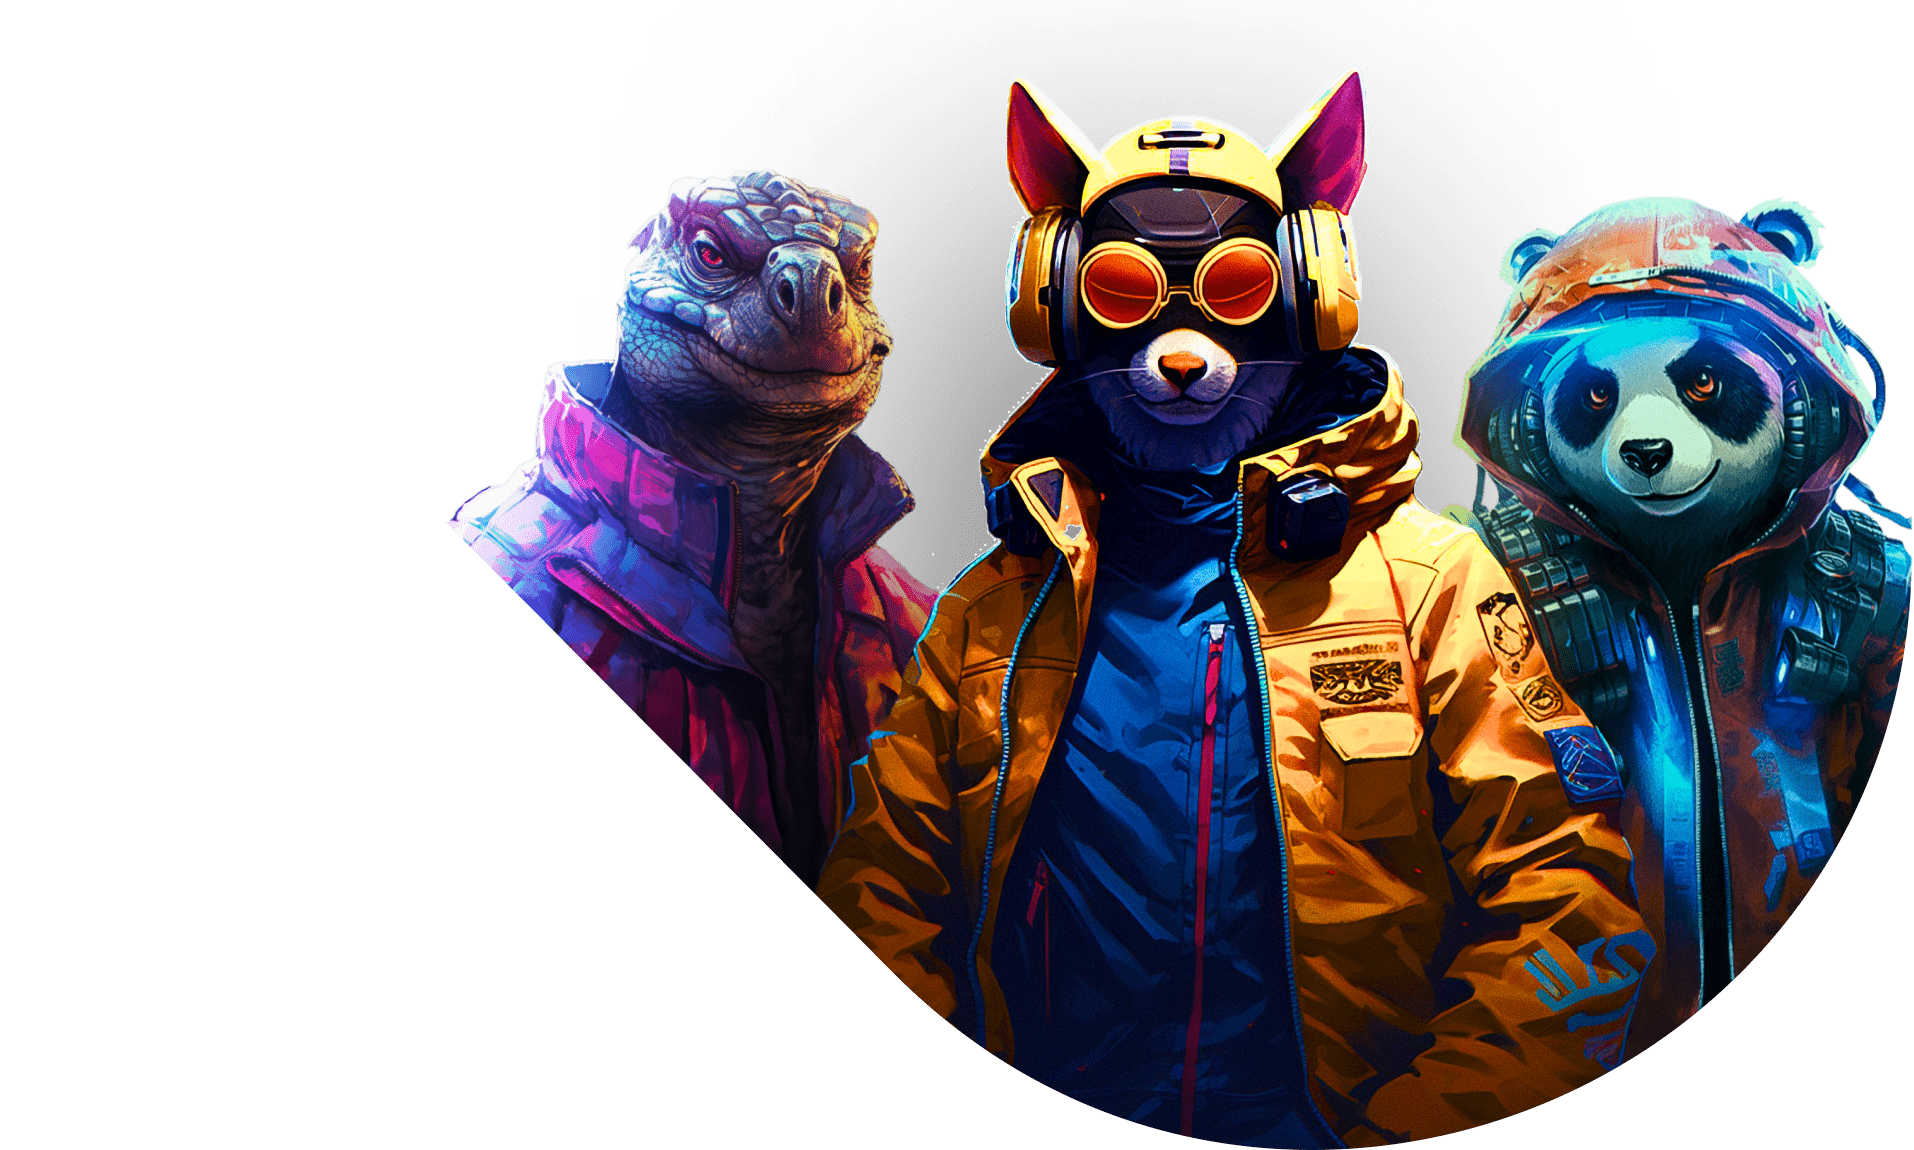
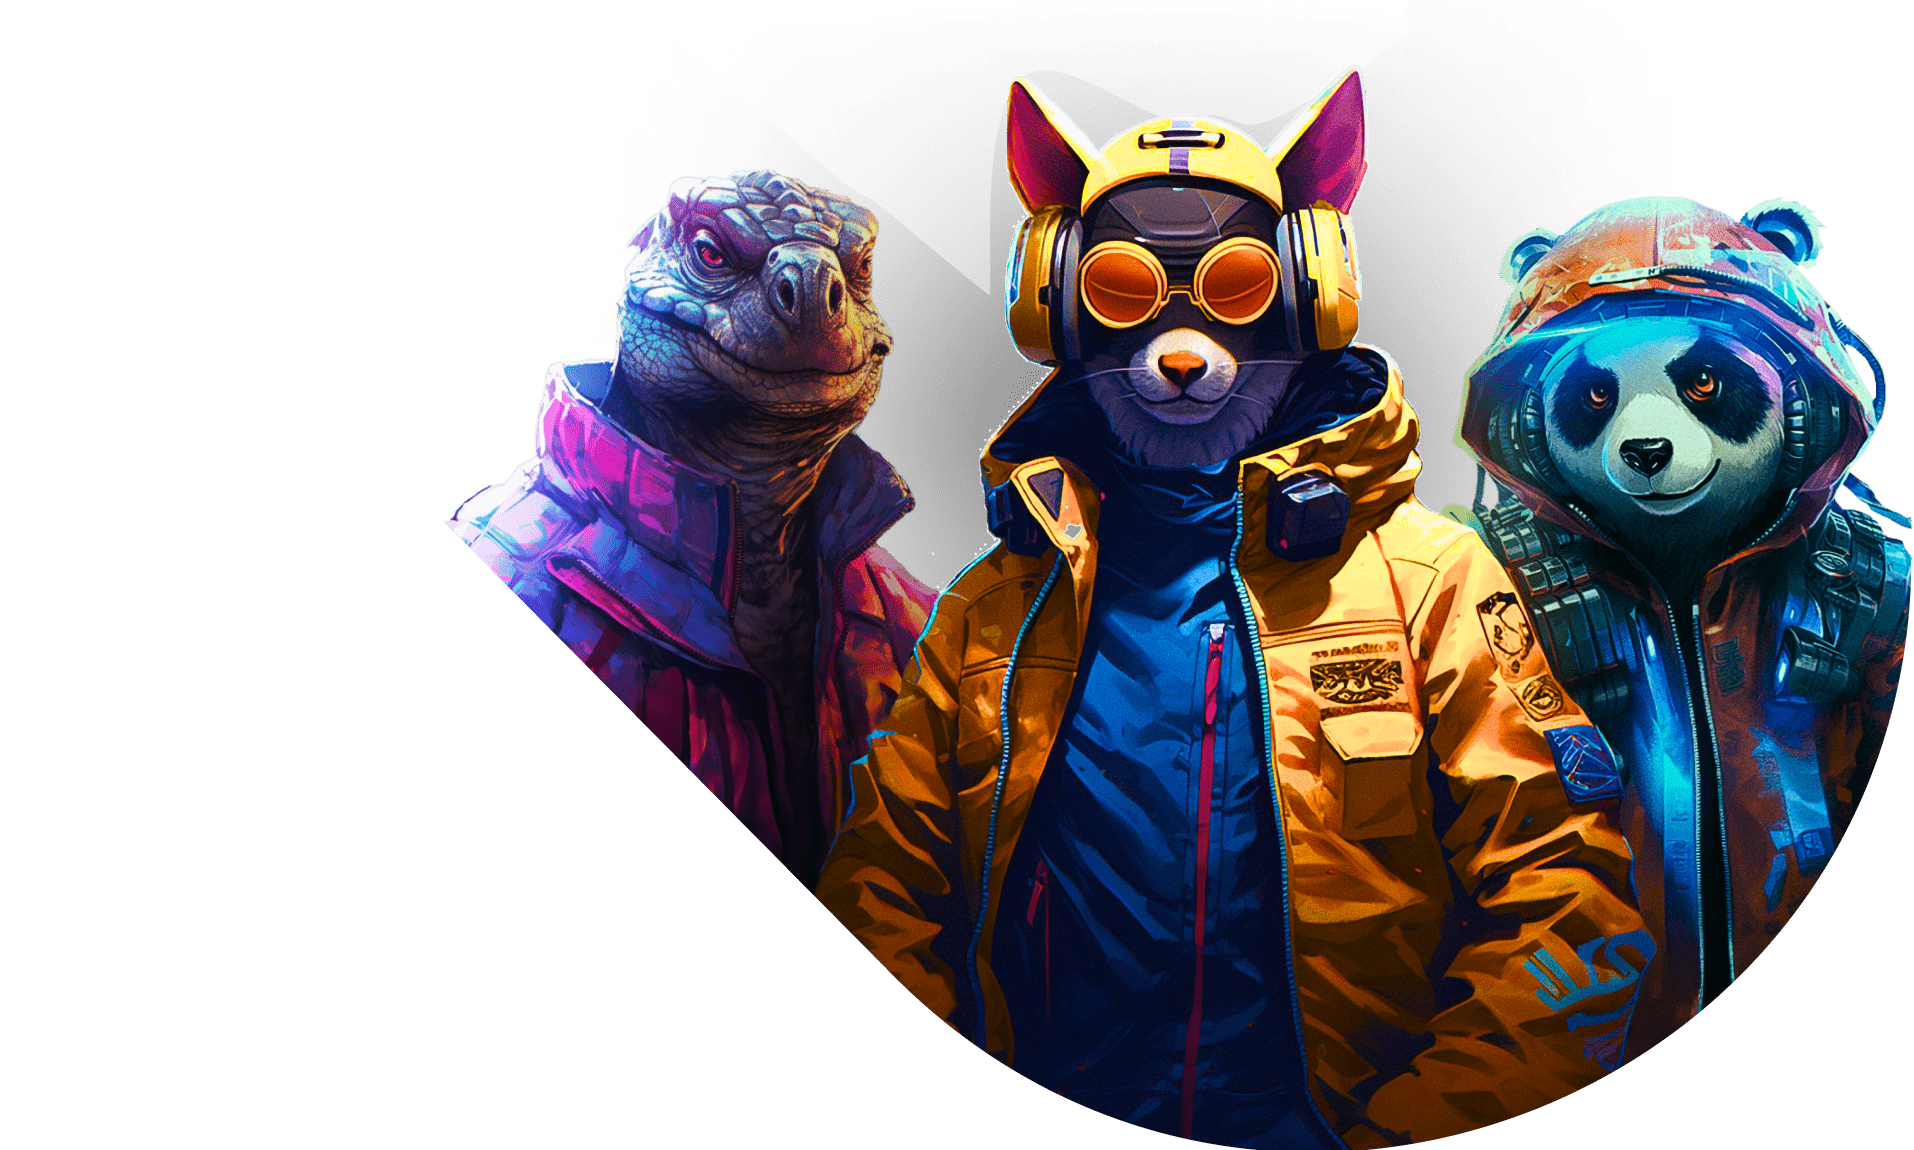
chore: hero bg image position

diff --git a/src/components/pages/community/hero/hero.jsx b/src/components/pages/community/hero/hero.jsx
@@ -25,7 +25,7 @@ const Hero = () => (
       >
         Welcome to{` `}
         <br className="md:hidden" />
-        Novu Community
+        Novu&nbsp;Community
       </Heading>
       <p
         className="col-start-2 col-span-5 mt-4 text-xl font-book max-w-[504px] leading-snug text-white opacity-70 xl:text-lg xl:max-w-[458px] lg:col-span-6 lg:col-start-1 md:col-span-8 md:col-start-3 md:text-base md:text-center md:max-w-none sm:mt-3 sm:col-span-full sm:max-w-[312px] sm:leading-tight sm:mx-auto"
@@ -39,28 +39,28 @@ const Hero = () => (
       />
     </div>
     <div
-      className="absolute z-0 top-0 left-1/2 w-[1920px] -translate-x-1/2 xl:w-[1480px] xl:top-8 lg:w-[1240px] lg:left-[48.5%] md:w-[1500px] md:left-1/2 md:top-0 md:-translate-x-[70.75%] sm:w-[830px]"
+      className="absolute z-0 top-0 left-1/2 w-[1920px] -translate-x-1/2 xl:w-[1480px] lg:w-[1240px] lg:left-[48.5%] md:w-[1500px] md:left-1/2 md:-translate-x-[70.75%] sm:w-[830px]"
       aria-hidden
     >
       <span className="absolute top-[16%] left-[87.7%] w-[90px] h-[200px] xl:top-[11%] xl:left-[87%] lg:top-[14%] md:top-[28%] sm:left-[85%] sm:top-[42%]">
         <span className="absolute inset-0 bg-[linear-gradient(229deg,#7ECBF1_17.66%,_#7ECBF1_60.48%)] blur-3xl opacity-30 rounded-[100%]" />
         <span className="absolute top-1/2 left-1/2 -translate-x-1/2 -translate-y-1/2 bg-white blur-xl opacity-40 w-[10%] h-[20%] rounded-[100%] mix-blend-soft-light" />
       </span>
-      <span className="absolute z-10 top-[12.7%] left-[47.7%] w-[90px] h-[200px] rotate-[-45deg] xl:top-[7.5%] lg:top-[8.5%] md:top-[24%] sm:left-[46%] sm:top-[42%]">
+      <span className="absolute z-10 top-[12.7%] left-[47.7%] w-[90px] h-[200px] rotate-[-45deg] xl:top-[7.5%] lg:top-[8.5%] md:top-[27%] sm:left-[46%] sm:top-[42%]">
         <span className="absolute inset-0 bg-[linear-gradient(229deg,#F17EAE_17%,#F17EDE_60%)] blur-3xl opacity-40 rounded-[100%]" />
         <span className="absolute top-1/2 left-1/2 -translate-x-1/2 -translate-y-1/2 bg-white blur-xl opacity-50 w-[20%] h-[20%] rounded-[100%] mix-blend-soft-light" />
       </span>
       <img
-        className="relative -top-[250px] min-w-[1480px] max-w-none xl:w-full xl:min-w-px xl:-top-[248px] lg:-top-[176px] lg:w-[1240px] md:-top-3.5 md:w-[1500px] sm:w-[834px] sm:top-[202px] sm:[mask-image:linear-gradient(to_bottom,transparent_0%,black_10%)]"
+        className="relative -top-[358px] min-w-[1480px] max-w-none xl:w-full xl:min-w-px xl:-top-72 lg:top-[-213px] lg:w-[1240px] md:-top-11 md:w-[1500px] sm:w-[834px] sm:top-[169px] sm:[mask-image:linear-gradient(to_bottom,transparent_0%,black_10%)]"
         src={bg}
         width={1920}
-        height={1800}
+        height={1920}
         alt=""
         loading="eager"
         aria-hidden
       />
       <StaticImage
-        className="!absolute top-[101px] left-[40.2%] w-[957px] xl:w-[740px] xl:top-[1.5%] xl:left-[40.1%] lg:w-[617px] lg:top-[52px] lg:left-[40.3%] md:w-[746px] md:top-[18.6%] sm:top-[45.1%] sm:w-[417px]"
+        className="!absolute top-[101px] left-[40.2%] w-[957px] xl:w-[740px] xl:top-[4.3%] xl:left-[40.1%] lg:w-[618px] lg:top-[83px] lg:left-[40.25%] md:w-[746px] md:left-[40.3%] md:top-[21.05%] sm:top-[44%] sm:w-[417px]"
         src="./images/animals.png"
         width={957}
         height={575}

diff --git a/src/components/pages/community/get-involved/get-involved.jsx b/src/components/pages/community/get-involved/get-involved.jsx
@@ -33,7 +33,7 @@ const ITEMS = [
 ];
 
 const GetInvolved = () => (
-  <section className="get-involved safe-paddings relative z-10 mt-[78px]">
+  <section className="get-involved safe-paddings relative z-10 mt-[70px] md:mt-24 sm:mt-20">
     <div className="container grid grid-cols-12 grid-gap-x relative z-10">
       <Heading
         className="font-medium col-span-full text-[44px] text-center leading-tight lg:text-5xl md:text-[32px] sm:text-3xl"
